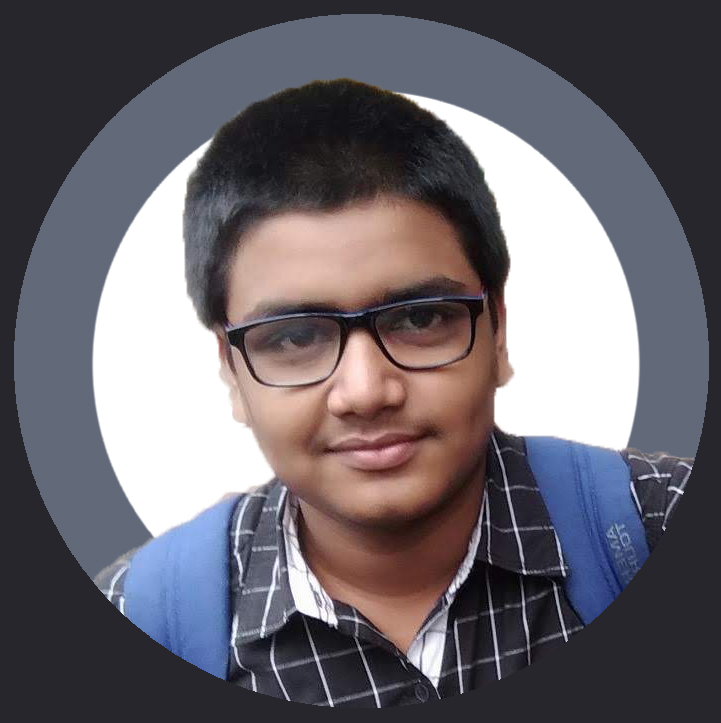
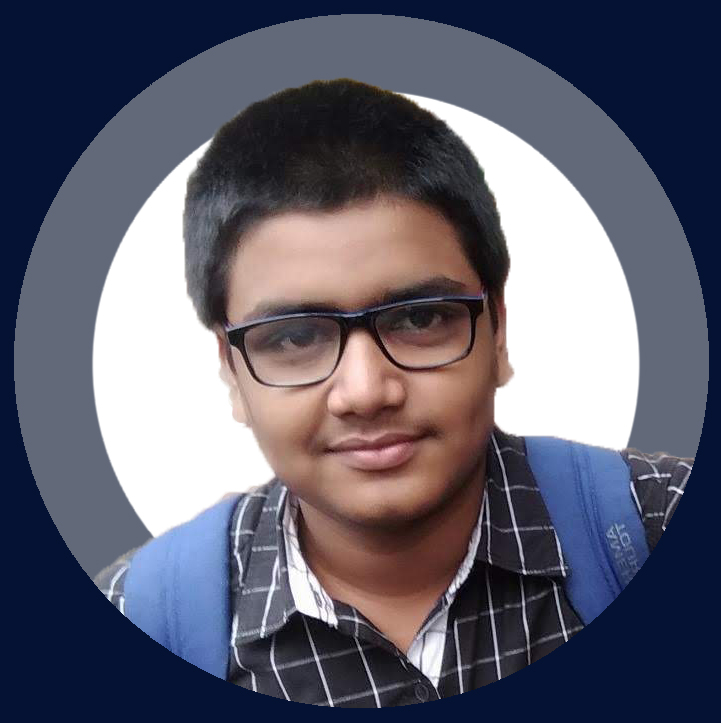
bgc change

Changed region(s): [[0.0, 0.0, 1.0, 1.0]]

diff --git a/README.md b/README.md
@@ -39,7 +39,7 @@
   
 
 ## Key Points
-- Developed by [Arya Chakraborty](linkedin.com/in/arya-chakraborty2002) and [Rituparno Das](linkedin.com/in/rituparno-das-473a01198) students of VIT-AP.
+- Developed by [Arya Chakraborty](https://www.linkedin.com/in/arya-chakraborty2002/) and [Rituparno Das](https://www.linkedin.com/in/rituparno-das-473a01198/) students of VIT-AP.
 - The application utilizes the [TMDB API](https://developer.themoviedb.org/docs/getting-started) to fetch movie data and posters.
 - The recommendation system uses TF-IDF vectorization and cosine similarity for efficient movie suggestions.
 - Users can select movies to get recommendations or choose genres for genre-based recommendations.
@@ -50,6 +50,6 @@
 ## Credits 
 
 <p align="center">
-  <img src="git_cut.jpg" alt="Arya Chakraborty" width="150">
-  <img src="gir_ritu.jpg" alt="Rituparno Das" width="150">
+  <img src="git_cut.jpg" alt="Arya Chakraborty" width="200">
+  <img src="gir_ritu.jpg" alt="Rituparno Das" width="200">
 </p>
